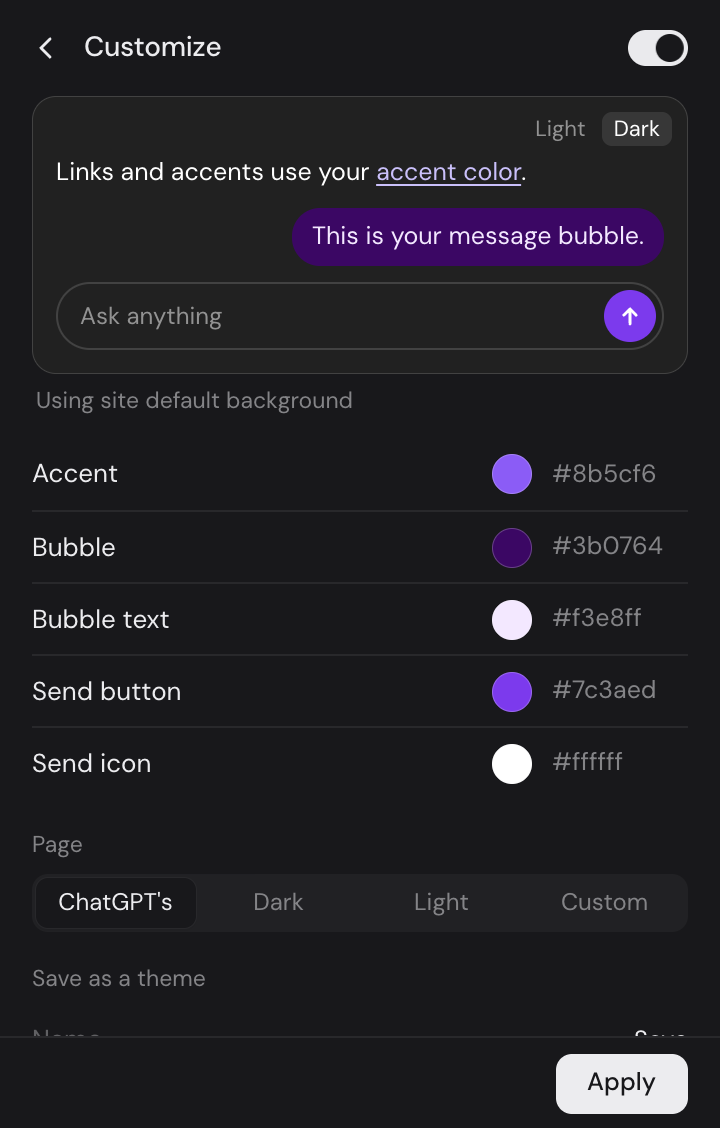
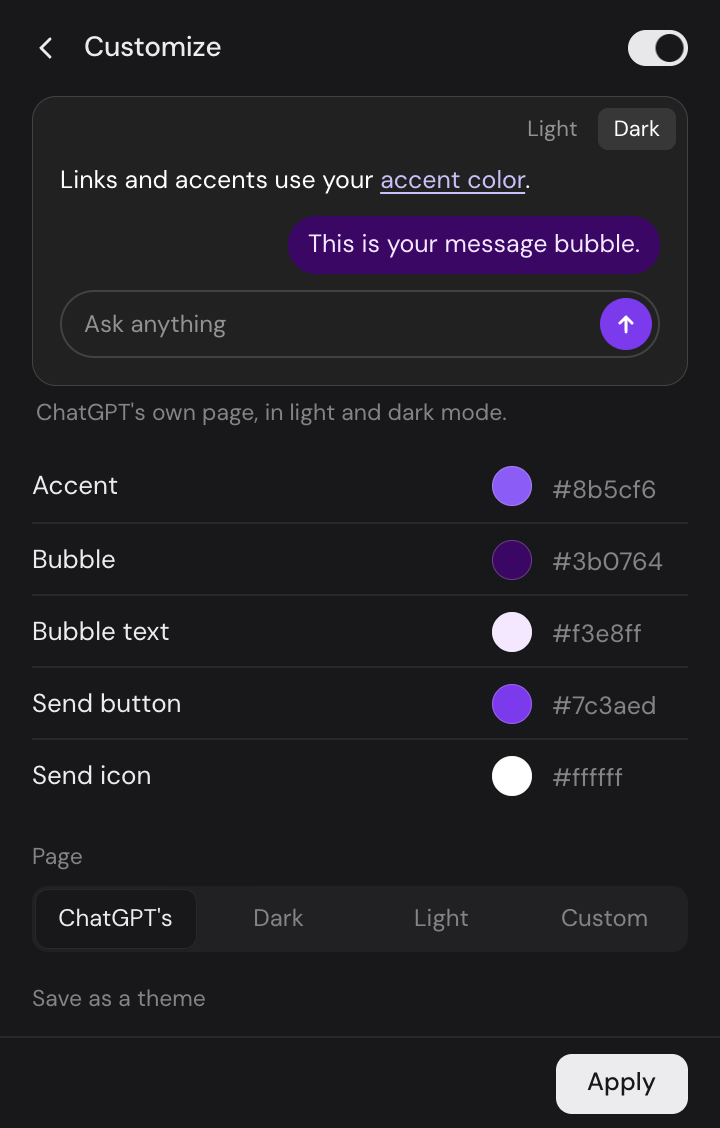
Give the preview toggle and page segments room around their text

diff --git a/src/popup/popup.css b/src/popup/popup.css
@@ -97,10 +97,10 @@ button { cursor: pointer; }
 #customizeView { display: flex; flex-direction: column; }
 .scroll { max-height: 470px; overflow-y: auto; padding: 0 16px 8px; scrollbar-width: thin; }
 .preview-wrap { position: relative; }
-.mini-seg { position: absolute; right: 8px; top: 8px; z-index: 1; display: flex; gap: 2px; }
-.mini-seg button { padding: 1px 6px; border: 0; border-radius: 5px; background: none; font-size: 11px; color: var(--p-muted, var(--muted)); }
+.mini-seg { position: absolute; right: 6px; top: 6px; z-index: 1; display: flex; gap: 2px; }
+.mini-seg button { padding: 3px 8px; border: 0; border-radius: 5px; background: none; font-size: 11px; color: var(--p-muted, var(--muted)); }
 .mini-seg button[aria-pressed="true"] { color: var(--p-fg, var(--fg)); background: color-mix(in oklab, var(--p-fg, var(--fg)) 10%, transparent); }
-.preview { display: flex; flex-direction: column; gap: 8px; padding: 30px 12px 12px; border-radius: 12px; background: var(--p-surface); color: var(--p-fg); box-shadow: inset 0 0 0 0.5px var(--p-line); transition: background 0.2s; }
+.preview { display: flex; flex-direction: column; gap: 8px; padding: 34px 14px 14px; border-radius: 12px; background: var(--p-surface); color: var(--p-fg); box-shadow: inset 0 0 0 0.5px var(--p-line); transition: background 0.2s; }
 .preview p { margin: 0; font-size: 12.5px; }
 .preview .accent-word { color: var(--p-text); text-decoration: underline; text-underline-offset: 2px; }
 .preview .user { align-self: flex-end; max-width: 80%; padding: 6px 10px; border-radius: 14px; background: var(--p-bubble); color: var(--p-on-bubble); }
@@ -128,7 +128,7 @@ html[data-native-picker="off"] .field input[type="color"] { pointer-events: none
 .block .field { border-top: 1px solid var(--line); }
 .seg { display: flex; gap: 2px; padding: 2px; border-radius: 8px; background: var(--wash); }
 .seg input { position: absolute; opacity: 0; pointer-events: none; }
-.seg label { flex: 1; padding: 4px 0; border-radius: 6px; text-align: center; font-size: 12px; color: var(--muted); cursor: pointer; }
+.seg label { flex: 1; padding: 6px 8px; border-radius: 6px; text-align: center; font-size: 12px; color: var(--muted); cursor: pointer; }
 .seg input:checked + label { background: var(--bg); color: var(--fg); box-shadow: 0 0 0 0.5px var(--line), 0 1px 2px rgb(0 0 0 / 6%); }
 .seg input:focus-visible + label { outline: 1.5px solid var(--fg); outline-offset: 1px; }
 
